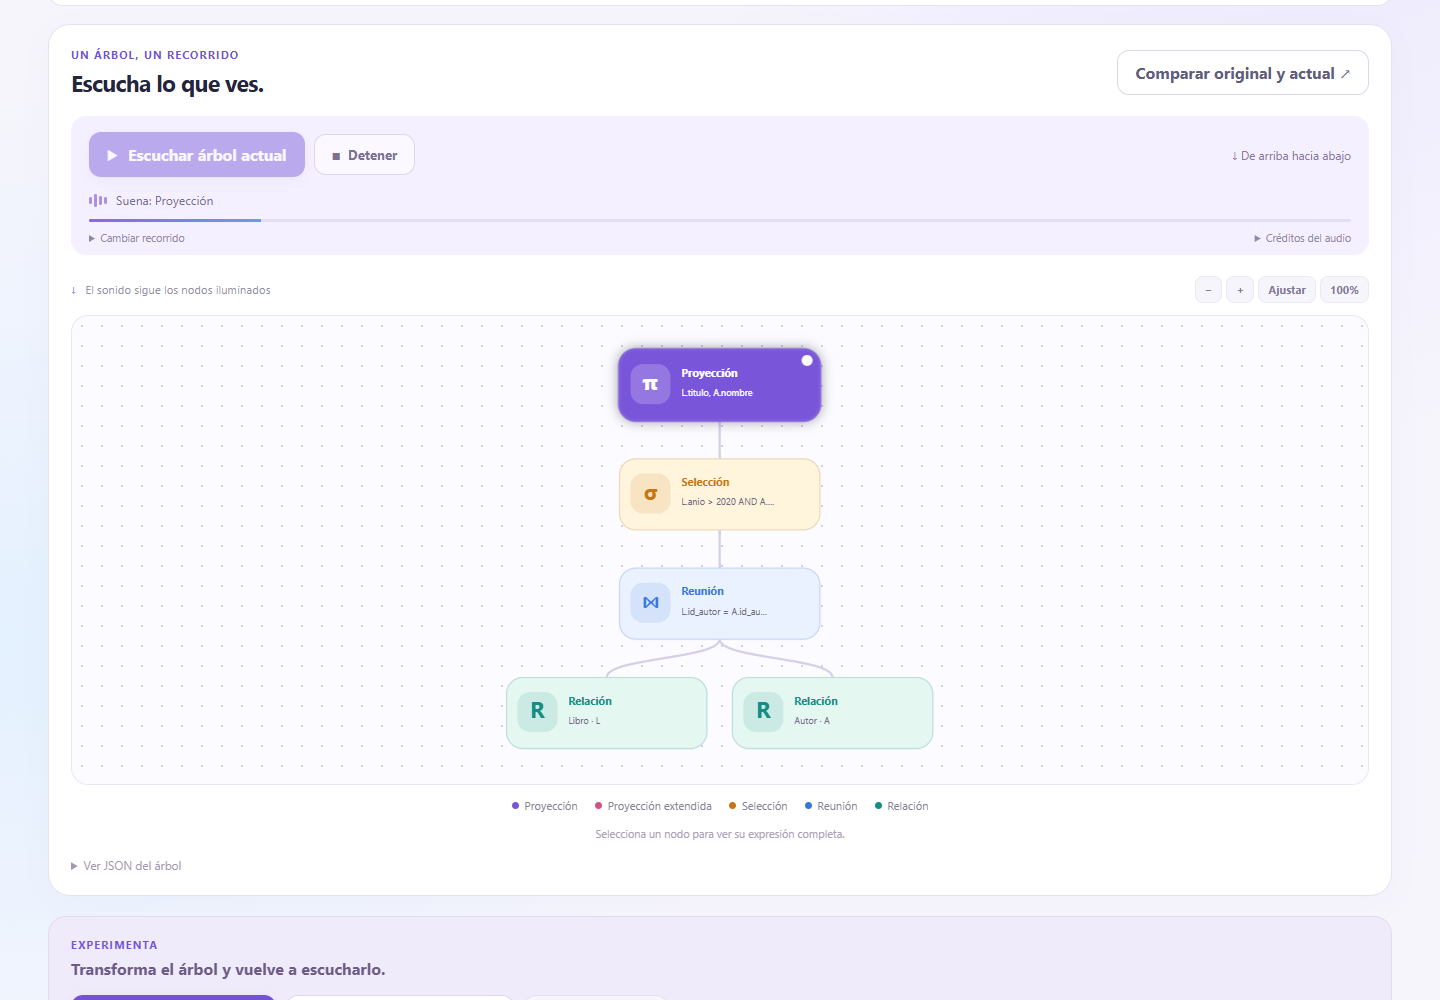
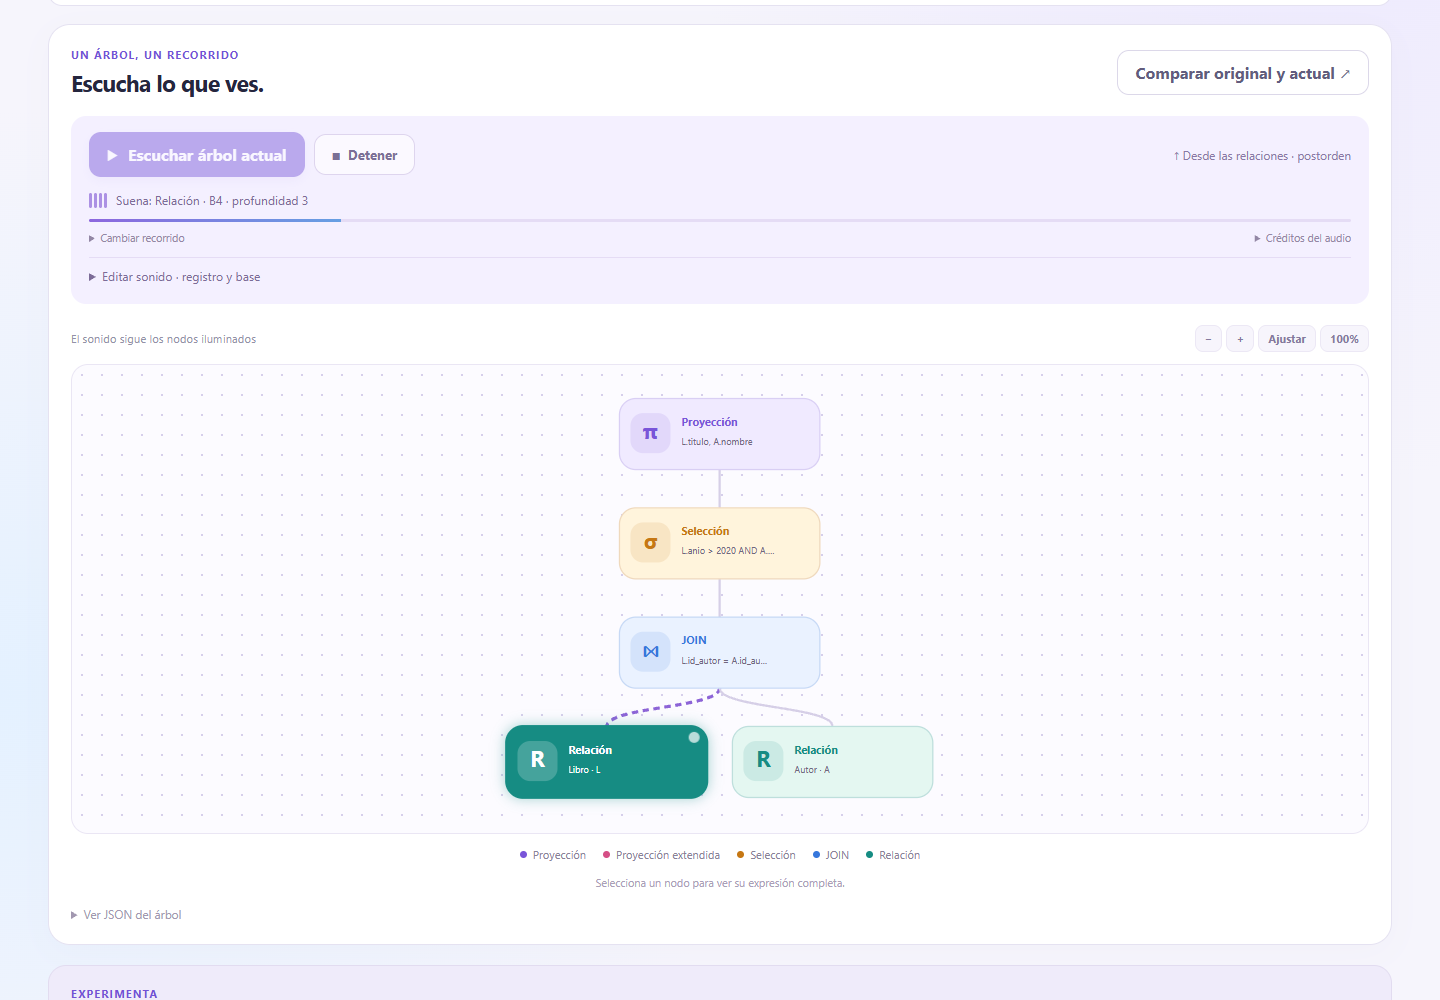
Registrar publicacion y verificacion de aventura orbital en GitHub Pages

diff --git a/docs/publicacion-github-pages.md b/docs/publicacion-github-pages.md
@@ -3,13 +3,26 @@
 La aplicación funciona en el navegador. ChatGPT no es necesario para abrirla,
 procesar entradas, comparar árboles o escuchar los sampleos.
 
-Publicado el 18 de noviembre de 2026:
+Actualizado el 23 de noviembre de 2026. La versión pública incorpora lectura
+desde las relaciones en postorden, etiqueta JOIN, banco Aventura orbital con
+base musical y registro por profundidad, ajustes sonoros compartidos y SQL
+de referencia editable. También se subieron la demo y la partitura de JOIN
+al repositorio.
+
+La [publicación de esta actualización](https://github.com/TheBofoBM/arboles-y-sonido/actions/runs/45298341957)
+terminó correctamente para el commit `291644a`. Se aprobaron 350 pruebas y la
+compilación; Chrome verificó la URL pública con trece comprobaciones de
+interfaz, once WAV cargados, reproducción, edición SQL, comparación A/B y
+vista móvil de 390 px, sin errores de página ni recursos. El informe actual
+está en [verificacion-github-pages.json](evidencias/verificacion-github-pages.json).
+
+Publicación inicial del 18 de noviembre de 2026:
 
 - [Abrir el prototipo](https://thebofobm.github.io/arboles-y-sonido/).
 - [Repositorio de código](https://github.com/TheBofoBM/arboles-y-sonido).
 - [Primera publicación satisfactoria](https://github.com/TheBofoBM/arboles-y-sonido/actions/runs/44343569049).
 
-Se verificó la URL pública con Chrome: HTTP 200, entradas JSON y álgebra,
+En aquella versión se verificó la URL pública con Chrome: HTTP 200, entradas JSON y álgebra,
 comparación A/B, carga de cuatro WAV usados por el ejemplo, reproducción
 completa y vista móvil sin desbordamiento. No hubo errores de página ni de
 recursos en esa sesión. La evidencia está en
